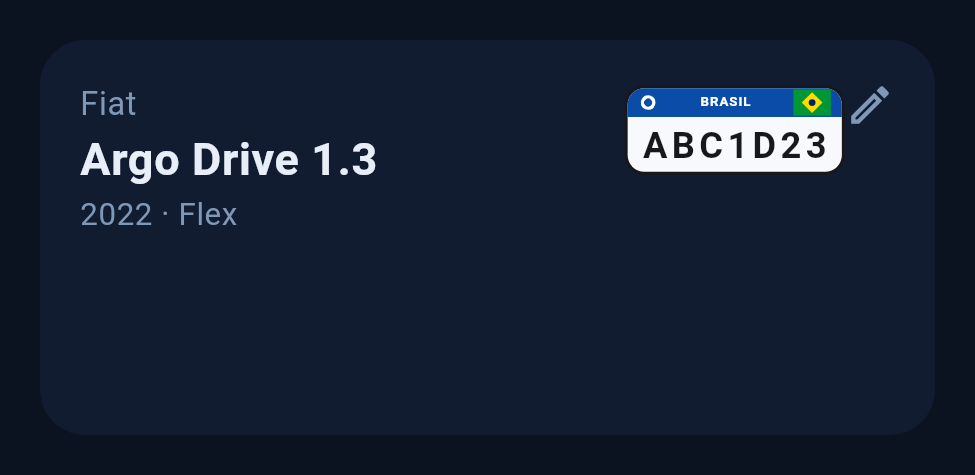
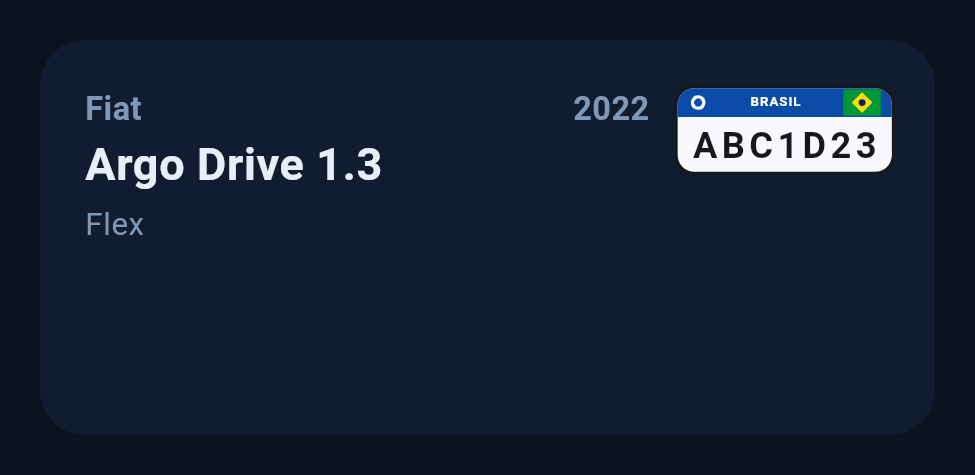
carlog: ano na linha da marca (antes da placa)

diff --git a/carlog-placa-mercosul.html b/carlog-placa-mercosul.html
@@ -25,7 +25,7 @@ footer{text-align:center;color:#5A6E8C;font-size:12px;margin:26px 0 10px}
 <body>
 <div class="wrap">
   <h1>CarLog — Placa Mercosul no cartão do veículo
-    <small>faixa azul (logo + BRASIL + bandeira) e código em preto no fundo claro • versão compacta com cantos arredondados</small>
+    <small>faixa azul (logo + BRASIL + bandeira) e código em preto no fundo claro • ano ao lado da marca • toque no nome para editar</small>
   </h1>
 
   <div class="reco">
@@ -36,13 +36,19 @@ footer{text-align:center;color:#5A6E8C;font-size:12px;margin:26px 0 10px}
     <div class="card">
       <div><div class="t">No cartão do veículo (tema Terracota)</div><div class="s">do lado da engrenagem de editar</div></div>
       <div class="phone"><a href="assets/carlog/placa_header_terracota.png" target="_blank"><img src="assets/carlog/placa_header_terracota.png" alt="Placa no cartão (tema escuro)"></a></div>
-      <div class="desc">A placa ocupa o lugar do chip antigo, mantendo o nome do carro e o botão de editar. Toque na imagem para ampliar.</div>
+      <div class="desc">Nova ordem na primeira linha: <b>marca</b> à esquerda, <b>ano</b> à direita e a <b>placa</b> no canto. Toque na identificação do carro para editar (o lápis saiu).</div>
     </div>
 
     <div class="card">
-      <div><div class="t">Tema claro (Madeira)</div><div class="s">mesma placa, contraste mantido</div></div>
+      <div><div class="t">Tema claro (Madeira)</div><div class="s">mesma linha marca + ano + placa</div></div>
       <div class="phone"><a href="assets/carlog/placa_header_madeira.png" target="_blank"><img src="assets/carlog/placa_header_madeira.png" alt="Placa no cartão (tema claro)"></a></div>
       <div class="desc">No tema claro o fundo branco da placa continua funcionando como elemento "físico".</div>
+    </div>
+
+    <div class="card">
+      <div><div class="t">Nome longo</div><div class="s">marca + ano + placa na mesma linha</div></div>
+      <div class="phone"><a href="assets/carlog/placa_header_nome_longo.png" target="_blank"><img src="assets/carlog/placa_header_nome_longo.png" alt="Nome longo"></a></div>
+      <div class="desc">Mesmo com modelo comprido, o ano e a placa ficam no lugar e o nome ganha o espaço restante (com "…" se precisar).</div>
     </div>
 
     <div class="card">
